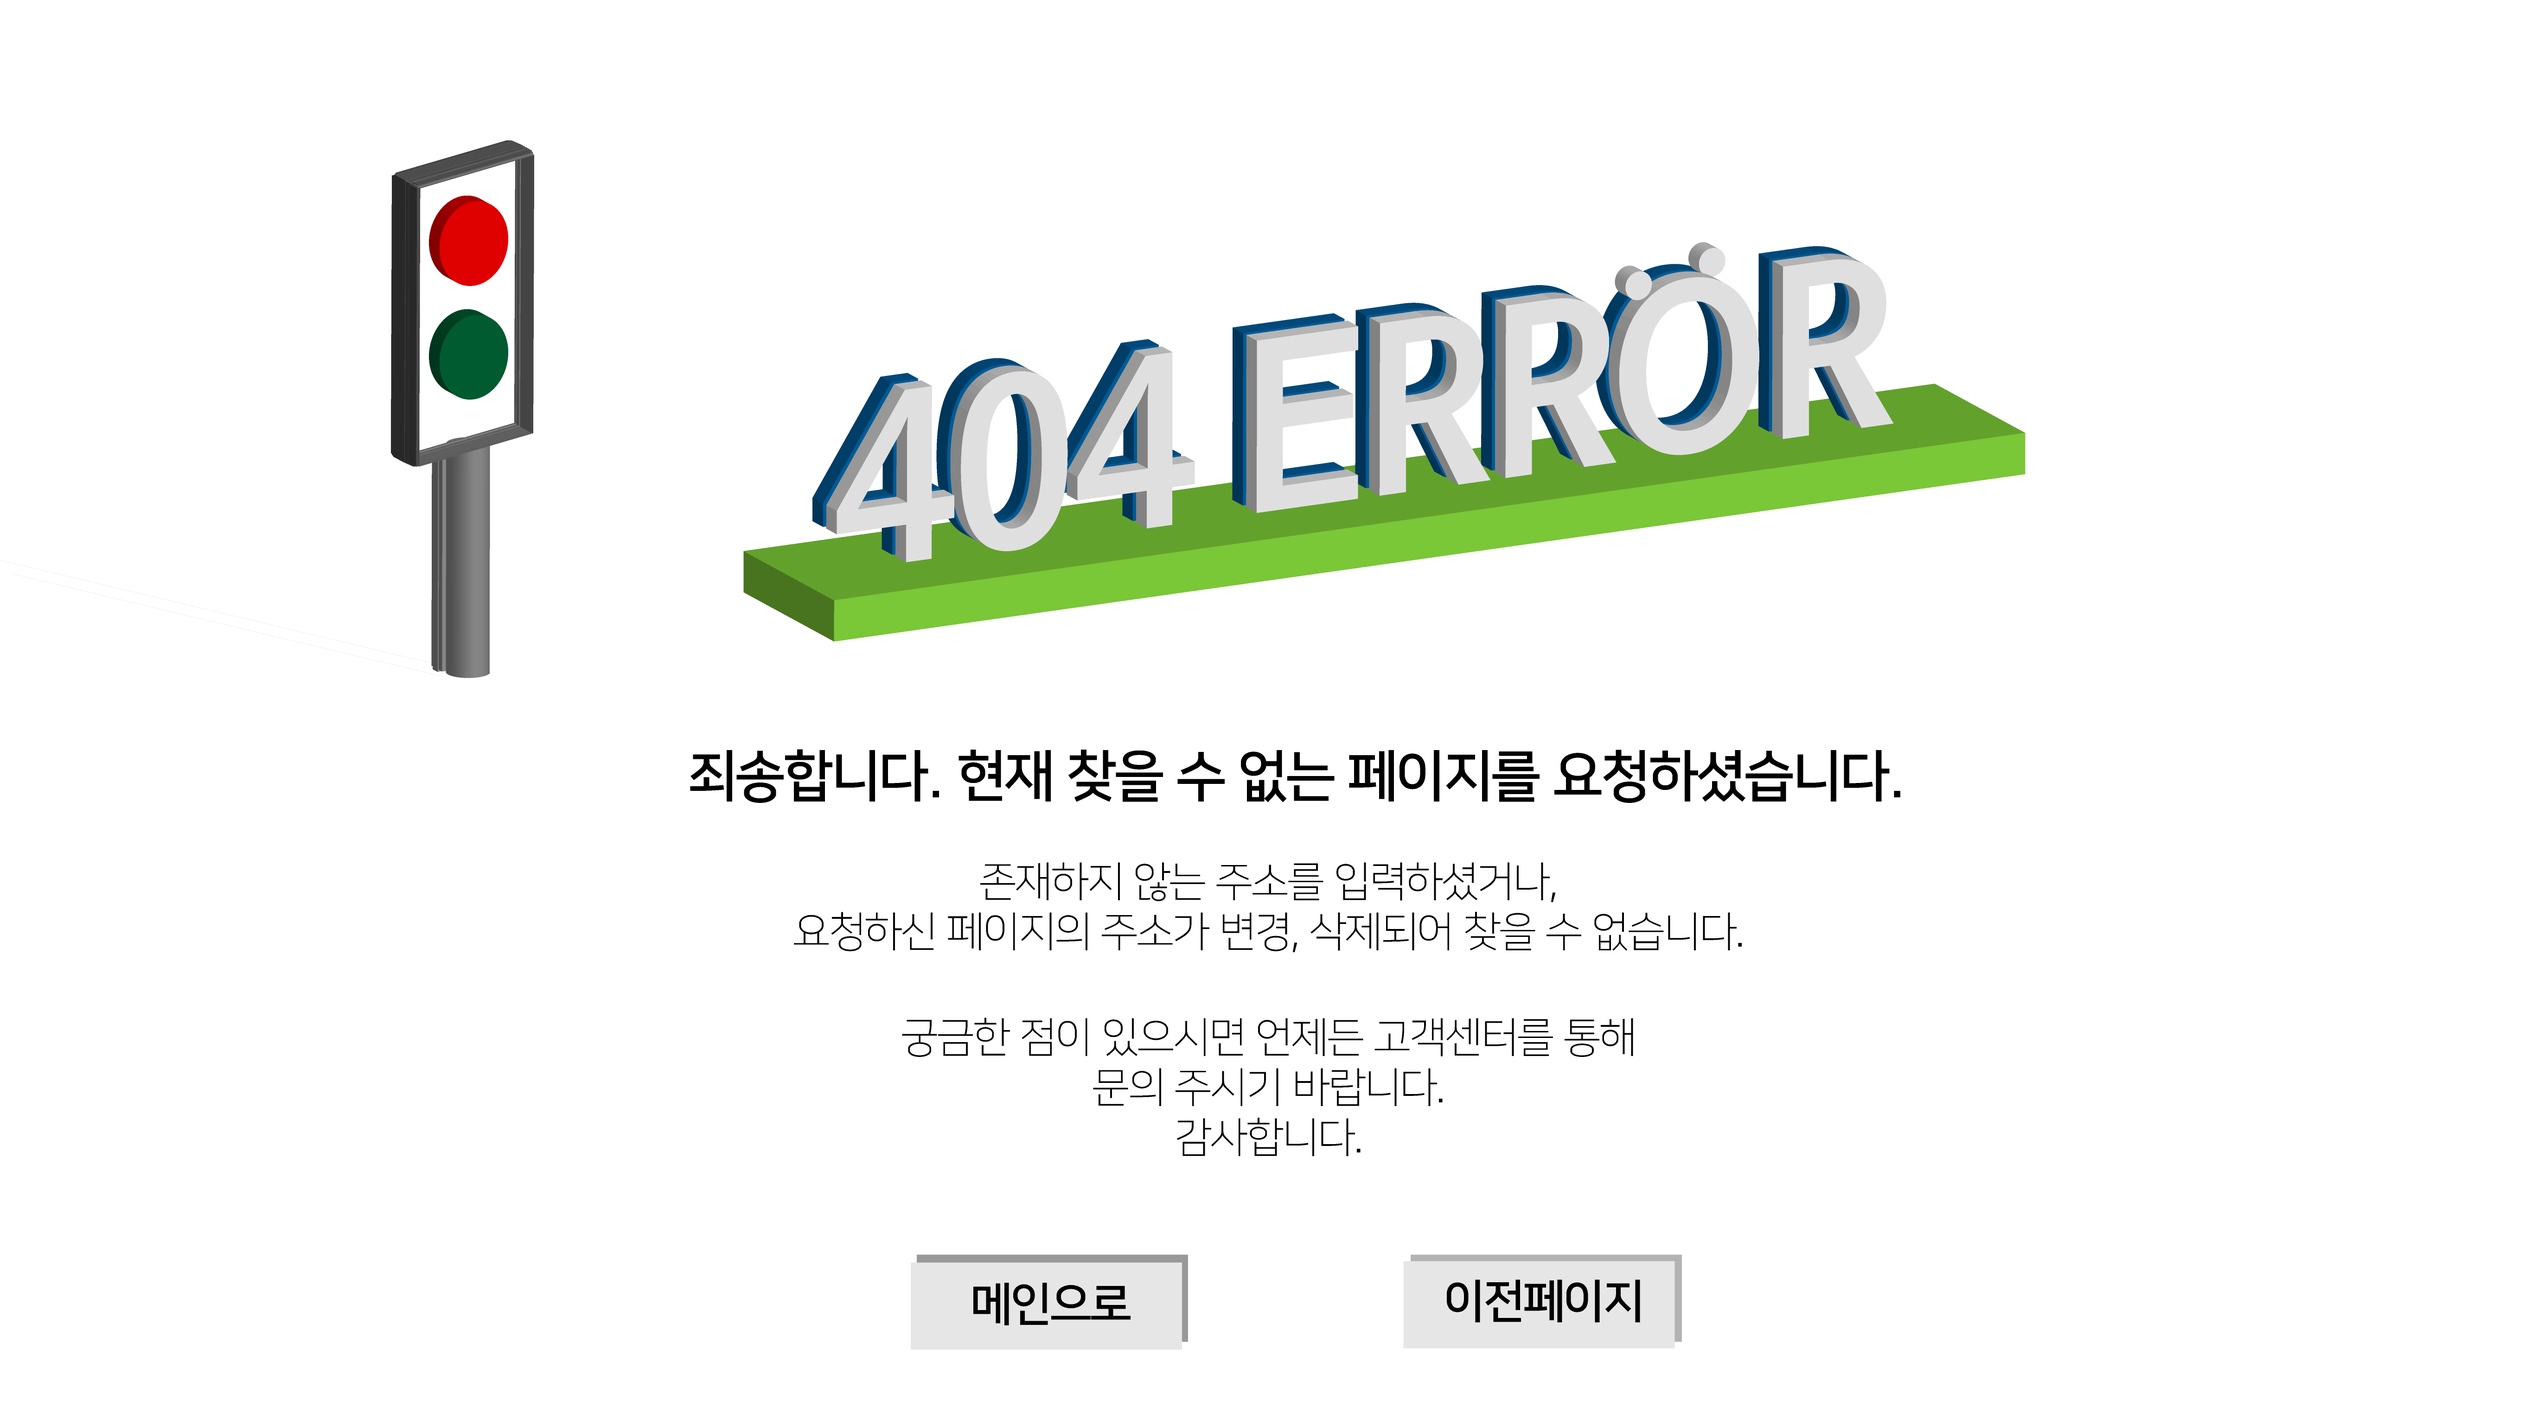
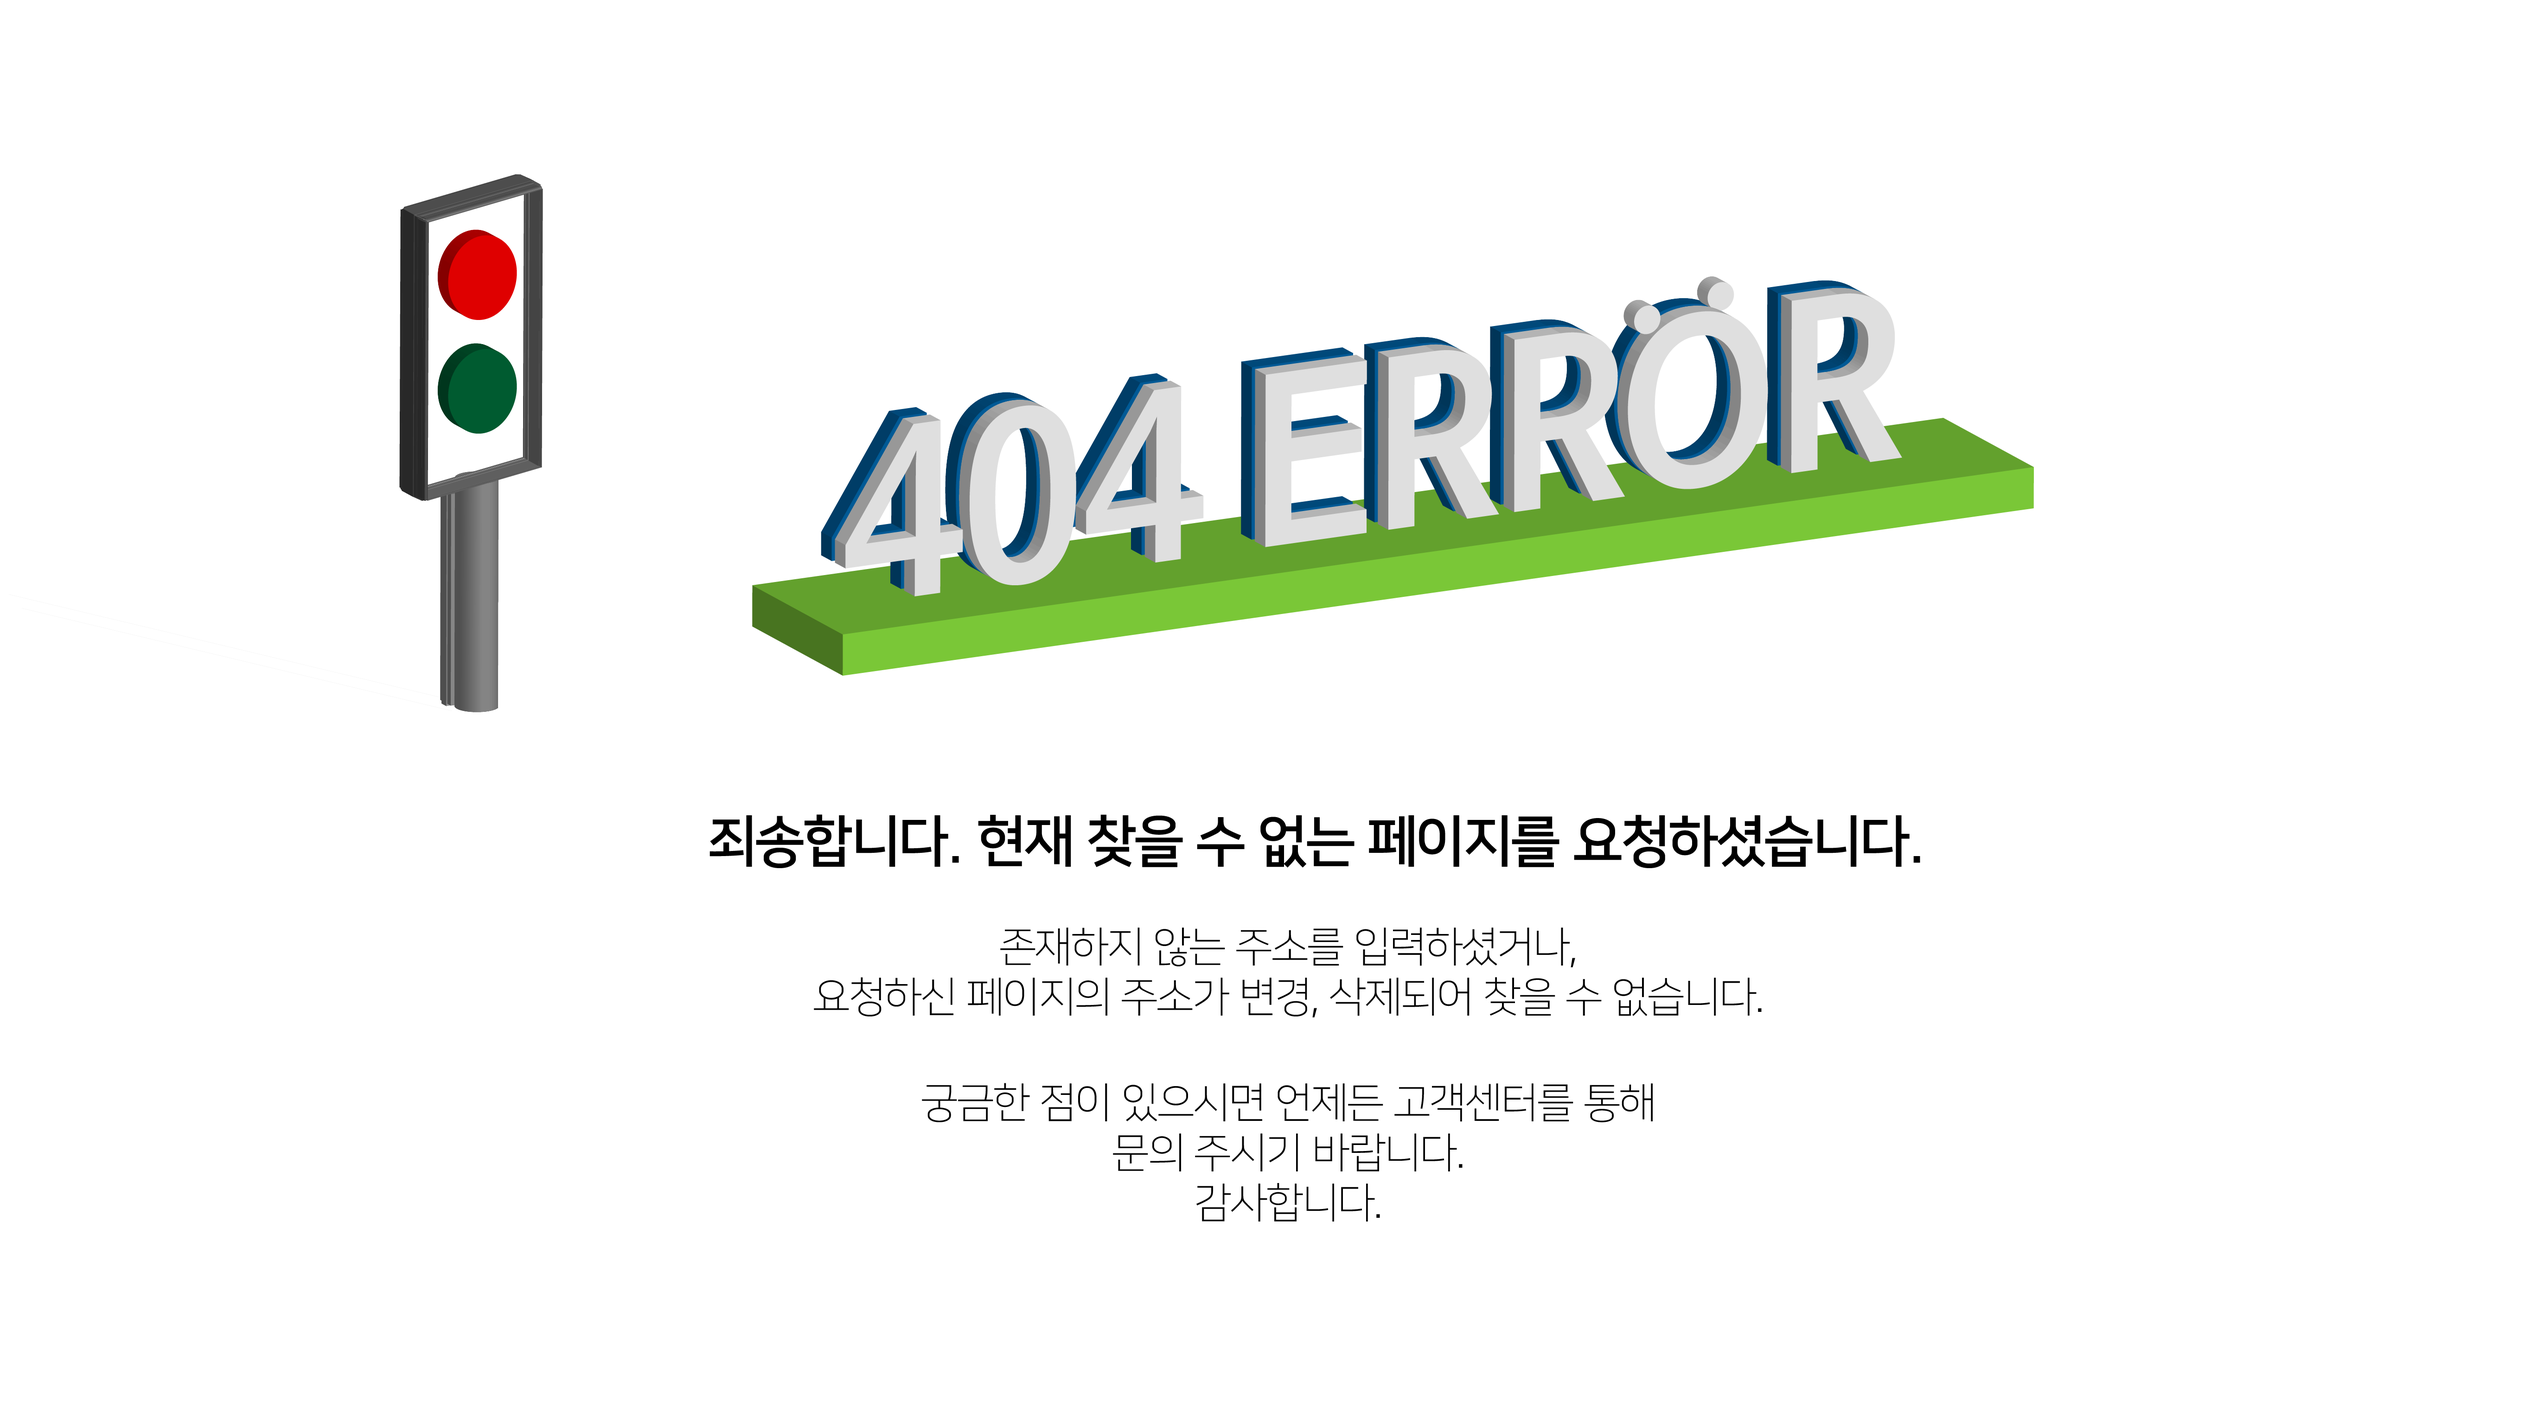
[update] errorPage

diff --git a/src/pages/Calendar.js b/src/pages/Calendar.js
@@ -13,17 +13,13 @@ import { useSelector, useDispatch } from "react-redux";
 import CalendarTodayIcon from "@material-ui/icons/CalendarToday";
 import { isTablet, isMobile } from "react-device-detect";
 import queryString from "query-string";
-import { withRouter } from "react-router-dom";
+import { withRouter, Redirect } from "react-router-dom";
 import { get_tranList, reset } from "../modules/tranList";
 import getParsedTranList from "../libs/getParsedTranList";
 
 function Calendar({ location }) {
   const dispatch = useDispatch();
-  const [queryCache, setQueryCache] = useState({
-    year: null,
-    month: null,
-    date: null,
-  });
+  const [queryCache, setQueryCache] = useState(null);
   const user = useSelector(state => state.user.user);
   const currentAcc = useSelector(state => state.user.currentAcc);
   const query = queryString.parse(location.search);
@@ -45,52 +41,63 @@ function Calendar({ location }) {
     }
   }, [dispatch, query, currentAcc, queryCache]);
 
-  if (!user) return <>로그인 후에 사용하세요!</>;
-  return (
-    <>
-      <Box pt={2} />
-      <Logo />
-      <Box pt={4} />
-      <Description>
-        WOODIS와 함께 나의 소비달력, 맞춤형 우리카드, 할인 추천을 위한 카드정보
-        구독 서비스를 활용해보세요.
-      </Description>
-      <Box pt={4} />
-      <UserDescriptionContainer name={user.name} />
-      <Box pt={4} />
-      <SingleMenu
-        description={`WOODIS와 함께 ${user.name}님의 소비 달력을 확인해보세요.`}
-      >
-        <CalendarTodayIcon style={{ color: "#008CE0", fontSize: iconSize }} />
-      </SingleMenu>
-      <Box pt={4} />
-      <Grid container style={{ backgroundColor: "transparent" }}>
-        <Grid
-          item
-          xs={12}
-          sm={10}
-          md={10}
-          lg={10}
-          style={{ background: "linear-gradient(white, #DAF4FD)" }}
+  if (!user) return null;
+
+  if (queryCache)
+    if (
+      queryCache.year === undefined ||
+      queryCache.month === undefined ||
+      queryCache.date === undefined
+    ) {
+      return <Redirect to="/error"></Redirect>;
+    }
+  if (parsedTranList)
+    return (
+      <>
+        <Box pt={2} />
+        <Logo />
+        <Box pt={4} />
+        <Description>
+          WOODIS와 함께 나의 소비달력, 맞춤형 우리카드, 할인 추천을 위한
+          카드정보 구독 서비스를 활용해보세요.
+        </Description>
+        <Box pt={4} />
+        <UserDescriptionContainer name={user.name} />
+        <Box pt={4} />
+        <SingleMenu
+          description={`WOODIS와 함께 ${user.name}님의 소비 달력을 확인해보세요.`}
         >
-          <ConsumptionPanel parsedTranList={parsedTranList} />
+          <CalendarTodayIcon style={{ color: "#008CE0", fontSize: iconSize }} />
+        </SingleMenu>
+        <Box pt={4} />
+        <Grid container style={{ backgroundColor: "transparent" }}>
+          <Grid
+            item
+            xs={12}
+            sm={10}
+            md={10}
+            lg={10}
+            style={{ background: "linear-gradient(white, #DAF4FD)" }}
+          >
+            <ConsumptionPanel parsedTranList={parsedTranList} />
+          </Grid>
+          <Grid
+            item
+            xs={12}
+            sm={2}
+            md={2}
+            lg={2}
+            style={{ background: "linear-gradient(white, #DAF4FD)" }}
+          >
+            <ConsumptionBoard parsedTranList={parsedTranList} />
+          </Grid>
         </Grid>
-        <Grid
-          item
-          xs={12}
-          sm={2}
-          md={2}
-          lg={2}
-          style={{ background: "linear-gradient(white, #DAF4FD)" }}
-        >
-          <ConsumptionBoard parsedTranList={parsedTranList} />
-        </Grid>
-      </Grid>
-      <Box pt={4} />
-      <Footer></Footer>
-      <Box pt={4} />
-    </>
-  );
+        <Box pt={4} />
+        <Footer></Footer>
+        <Box pt={4} />
+      </>
+    );
+  return null;
 }
 
 export default React.memo(withRouter(Calendar));

diff --git a/src/components/Menu.js b/src/components/Menu.js
@@ -21,10 +21,10 @@ const useStyles = makeStyles(theme => ({
   },
 }));
 
-const Item = function ({ children, description, href, delay }) {
+const Item = function ({ children, description, href, delay, onClick }) {
   const fadeIn = useFadeIn(2, delay);
   return (
-    <CardActionArea {...fadeIn} href={href}>
+    <CardActionArea {...fadeIn} href={href} onClick={onClick}>
       <CardMedia>{children}</CardMedia>
       <CardContent>
         <b style={{ fontSize: "0.75rem" }}>{description}</b>
@@ -35,7 +35,7 @@ const Item = function ({ children, description, href, delay }) {
 
 const getMonthandDay = () => {
   var today = new Date();
-  
+
   var year = today.getFullYear();
   var month = today.getMonth() + 1;
   var date = today.getDate();
@@ -43,7 +43,7 @@ const getMonthandDay = () => {
   return `?year=${year}&month=${month}&date=${date}`;
 };
 
-const Menu = function ({ name }) {
+const Menu = function ({ name, onClick }) {
   const classes = useStyles();
   let iconSize = 200;
   if (!isTablet && isMobile) {
@@ -61,6 +61,7 @@ const Menu = function ({ name }) {
       <Grid item xs={false} sm />
       <Grid item xs sm>
         <Item
+          onClick={onClick}
           delay={0}
           description={calanderDescription}
           href={`/calendar${getMonthandDay()}`}
@@ -69,12 +70,17 @@ const Menu = function ({ name }) {
         </Item>
       </Grid>
       <Grid item xs sm>
-        <Item delay={0.5} description={creditCardDescription} href="/benefits">
+        <Item
+          onClick={onClick}
+          delay={0.5}
+          description={creditCardDescription}
+          href="/benefits"
+        >
           <CreditCardIcon style={{ color: "#008CE0", fontSize: iconSize }} />
         </Item>
       </Grid>
       <Grid item xs sm>
-        <Item delay={1} description={subscriptDescription}>
+        <Item onClick={onClick} delay={1} description={subscriptDescription}>
           <SubscriptionsIcon style={{ color: "#008CE0", fontSize: iconSize }} />
         </Item>
       </Grid>

diff --git a/src/pages/ErrorPage.js b/src/pages/ErrorPage.js
@@ -1,14 +1,48 @@
 import React from "react";
 import errorPage from "../images/errorPage.png";
+import { withRouter, Link } from "react-router-dom";
+import { Button, Grid, Box } from "@material-ui/core";
+import { Logo, Footer, Description } from "../components";
 
-function ErrorPage() {
+function ErrorPage({ history }) {
   return (
-    <img
-      src={errorPage}
-      style={{ borderRadius: "30px" }}
-      width="100%"
-      alt="error"
-    ></img>
+    <>
+      <Box pt={2} />
+      <Logo />
+      <Box pt={4} />
+      <Description>
+        WOODIS와 함께 나의 소비달력, 맞춤형 우리카드, 할인 추천을 위한 카드정보
+        구독 서비스를 활용해보세요.
+      </Description>
+      <Box pt={4} />
+      <img src={errorPage} width="100%" alt="error"></img>
+      <Box pt={4} />
+      <Grid container style={{ width: "100%" }}>
+        <Grid item xs />
+        <Grid item xs container justify="space-around">
+          <Grid item>
+            <Link to={"/"}>
+              <Button size="large" variant="contained">
+                <b>메인으로</b>
+              </Button>
+            </Link>
+          </Grid>
+          <Grid item>
+            <Button
+              size="large"
+              variant="contained"
+              onClick={() => history.goBack()}
+            >
+              <b>이전페이지</b>
+            </Button>
+          </Grid>
+        </Grid>
+        <Grid item xs />
+      </Grid>
+      <Box pt={4} />
+      <Footer />
+      <Box pt={4} />
+    </>
   );
 }
-export default React.memo(ErrorPage);
+export default React.memo(withRouter(ErrorPage));

diff --git a/src/components/ConsumptionBoard.js b/src/components/ConsumptionBoard.js
@@ -9,8 +9,6 @@ const dayStyle = {
   color: "grey",
 };
 
-
-
 const ConsumptionBoard = function ({ location, parsedTranList }) {
   const query = queryString.parse(location.search);
   const day = new Date(`2021-${query.month}-${query.date}`).getDay();
@@ -19,21 +17,24 @@ const ConsumptionBoard = function ({ location, parsedTranList }) {
   if (!isTablet && isMobile) {
     show = true;
   }
-  
+
   const dataStyle = {
-  textAlign: show ? "center":"justify",
-  fontSize: "0.8rem",
-  color: "grey",
-  padding: "0.3rem",
-};
-  
-  if(!parsedTranList)
-	  return null;
+    textAlign: show ? "center" : "justify",
+    fontSize: "0.8rem",
+    color: "grey",
+    padding: "0.3rem",
+  };
+
+  if (!parsedTranList || !parsedTranList[query.date]) return null;
   return (
     <div>
       {show && <hr />}
       <div style={dayStyle}>{`${query.date}일 ${days[day]}요일`}</div>
-		  {parsedTranList[query.date].map((tran, index) => (<div key={index} style={dataStyle}>{`${tran.tranDate} : ${tran.place}에서 ${tran.pay.toLocaleString()}원 결제하셨습니다.`}</div>))}
+      {parsedTranList[query.date].map((tran, index) => (
+        <div key={index} style={dataStyle}>{`${tran.tranDate} : ${
+          tran.place
+        }에서 ${tran.pay.toLocaleString()}원 결제하셨습니다.`}</div>
+      ))}
     </div>
   );
 };

diff --git a/src/containers/UserDescriptionContainer.js b/src/containers/UserDescriptionContainer.js
@@ -4,16 +4,18 @@ import { UserDescription } from "../components";
 import { useDispatch } from "react-redux";
 import { reset } from "../modules/user";
 import deleteCookie from "../libs/deleteCookie";
+import { withRouter } from "react-router-dom";
 
-const UserDescriptionContainer = ({ name }) => {
+const UserDescriptionContainer = ({ name, history }) => {
   const dispatch = useDispatch();
   const logout = useCallback(() => {
-    dispatch(reset());
     deleteCookie("user");
     localStorage.clear();
-  }, [dispatch]);
+    dispatch(reset());
+    setTimeout(() => history.push("/"), 500);
+  }, [dispatch, history]);
 
   return <UserDescription logout={logout} name={name} />;
 };
 
-export default React.memo(UserDescriptionContainer);
+export default React.memo(withRouter(UserDescriptionContainer));

diff --git a/src/pages/Main.js b/src/pages/Main.js
@@ -1,7 +1,11 @@
 import React, { useEffect } from "react";
 import { Box } from "@material-ui/core";
-import { Logo, Description, Menu, Footer } from "../components";
-import { LoginFormContainer, UserDescriptionContainer } from "../containers";
+import { Logo, Description, Footer } from "../components";
+import {
+  LoginFormContainer,
+  UserDescriptionContainer,
+  MenuContainer,
+} from "../containers";
 import { useSelector } from "react-redux";
 
 function Main() {
@@ -23,7 +27,7 @@ function Main() {
         <LoginFormContainer />
       )}
       <Box pt={4} />
-      <Menu name={user ? user.name : null} />
+      <MenuContainer name={user ? user.name : null} />
       <Box pt={4} />
       <Footer></Footer>
       <Box pt={4} />

diff --git a/src/containers/MenuContainer.js b/src/containers/MenuContainer.js
@@ -1,0 +1,22 @@
+import React from "react";
+import { useEffect, useCallback } from "react";
+import { Menu } from "../components";
+import { useSelector } from "react-redux";
+import swal from "sweetalert";
+
+const MenuContainer = ({ name }) => {
+  const user = useSelector(state => state.user.user);
+  const onClick = useCallback(
+    e => {
+      if (!user) {
+        e.preventDefault();
+        swal(`로그인 후에 서비스를 이용해주세요.`);
+        return;
+      }
+    },
+    [user]
+  );
+  return <Menu onClick={onClick} name={name} />;
+};
+
+export default React.memo(MenuContainer);

diff --git a/src/containers/index.js b/src/containers/index.js
@@ -3,6 +3,7 @@ import SignupFormContainer from "./SignupFormContainer";
 import UserDescriptionContainer from "./UserDescriptionContainer";
 import SearchIDFormContainer from "./SearchIDFormContainer";
 import ReregisterFormContainer from "./ReregisterFormContainer";
+import MenuContainer from "./MenuContainer";
 
 export {
   LoginFormContainer,
@@ -10,4 +11,5 @@ export {
   UserDescriptionContainer,
   SearchIDFormContainer,
   ReregisterFormContainer,
+  MenuContainer,
 };

diff --git a/src/pages/Benefits.js b/src/pages/Benefits.js
@@ -12,7 +12,7 @@ function Benefits() {
   if (!isTablet && isMobile) {
     iconSize = 100;
   }
-  if (!user) return <>로그인 후에 사용하세요!</>;
+  if (!user) return null;
   return (
     <>
       <Box pt={2} />
